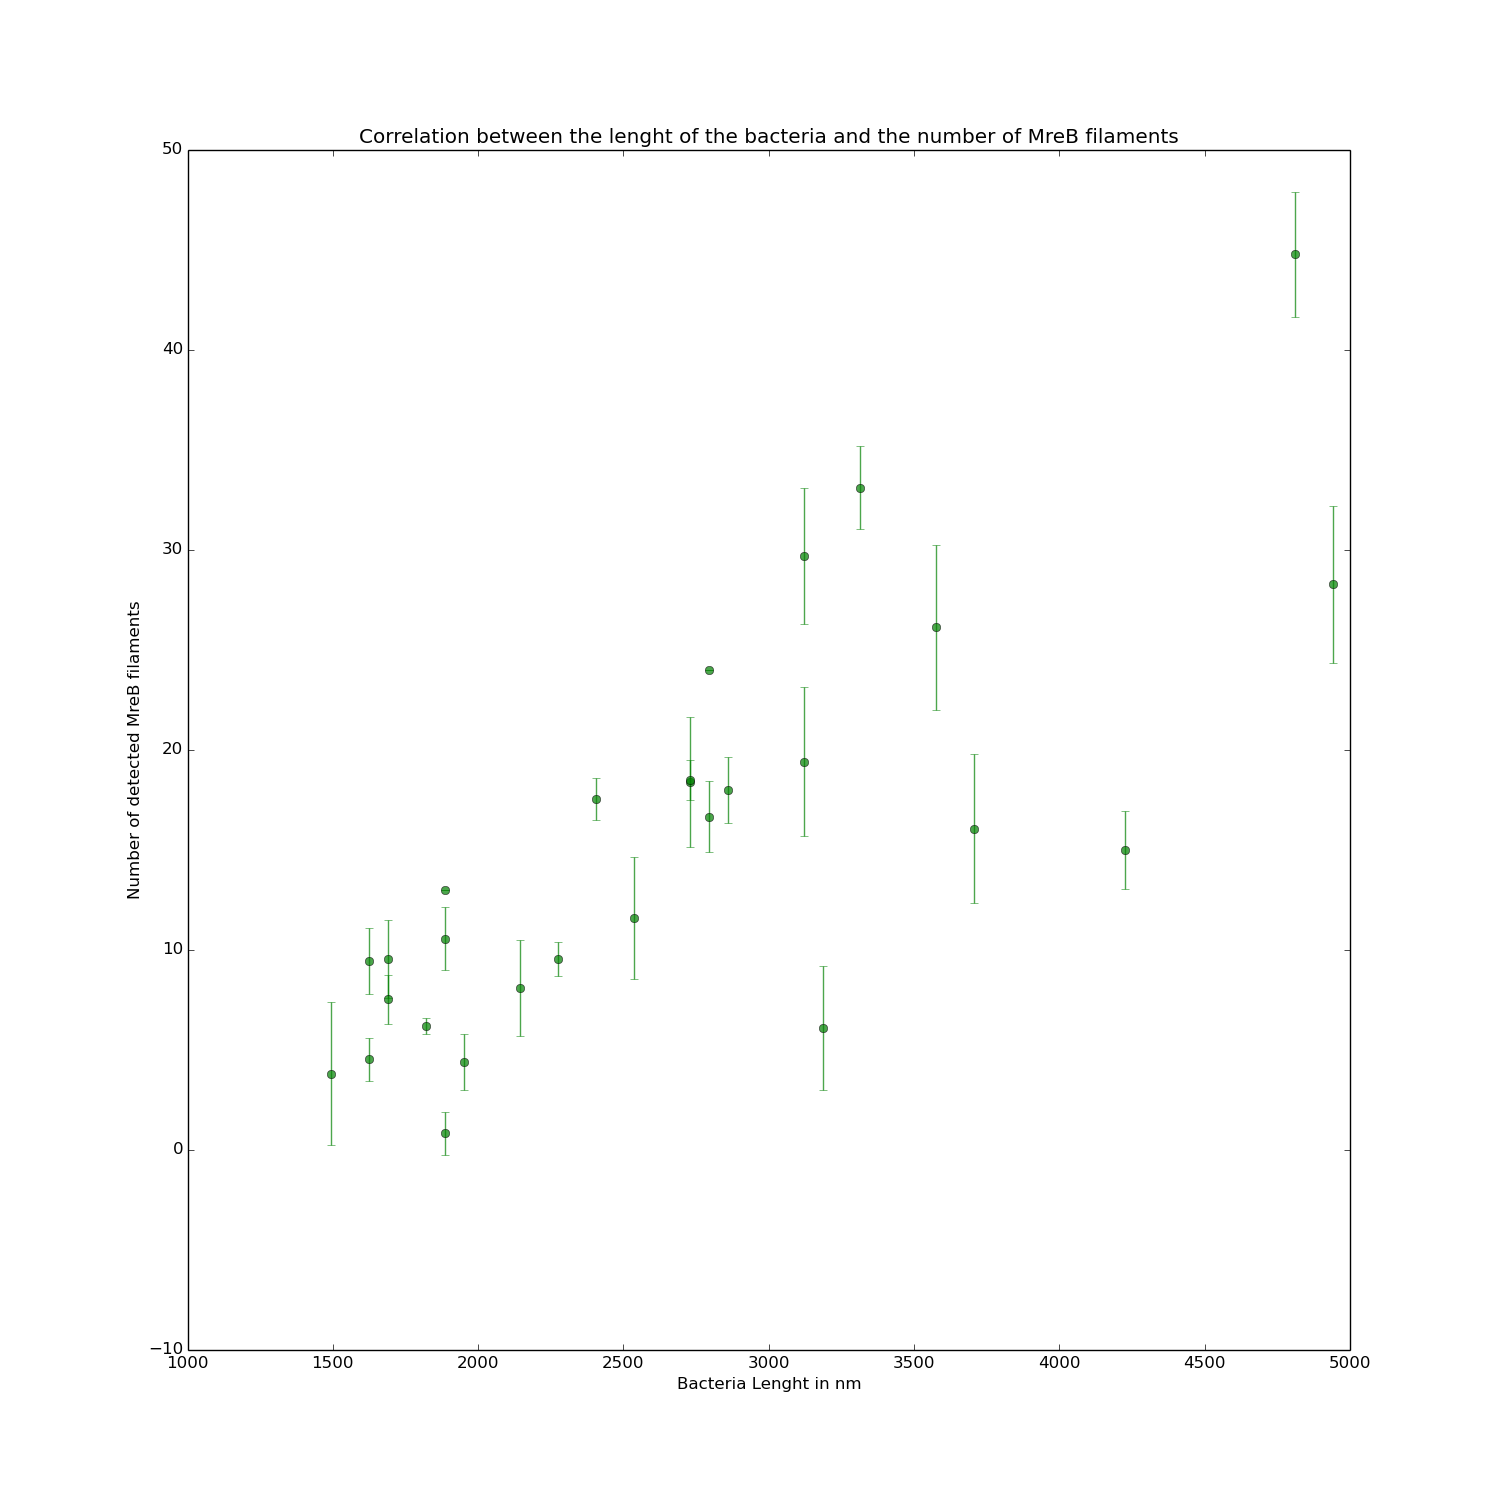
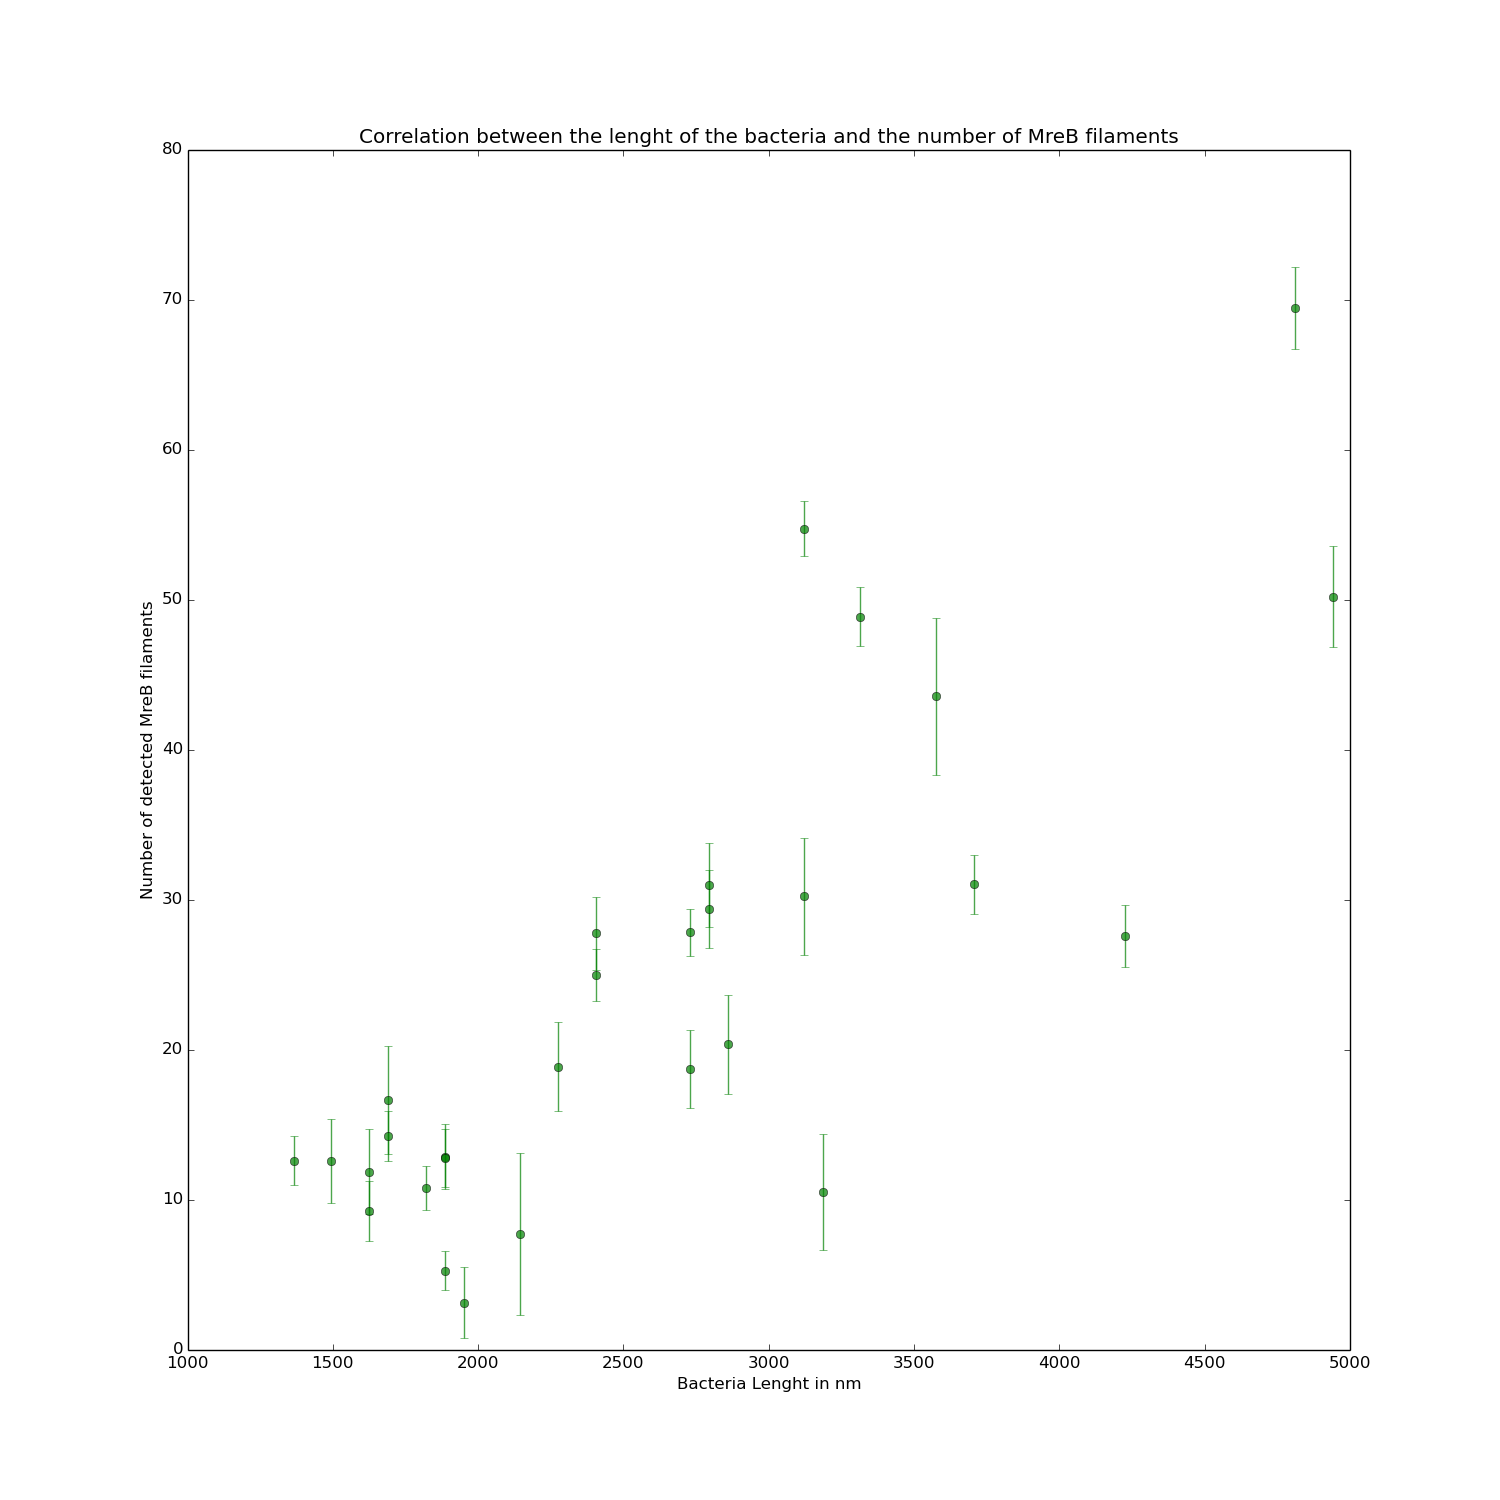
Added the train.py which implement a simple bruteforce parameter search.

diff --git a/train.py b/train.py
@@ -1,0 +1,81 @@
+#!/usr/bin/env python 
+
+import SpotAnaliser
+import sys
+import os
+import matplotlib.pyplot as plt
+import prettyplotlib as ppl
+import numpy as np
+
+if len(sys.argv) < 3:
+	print """USAGE: train.py PATH_TO_IMAGE_FILES TXT_IMAGE_FILE_LIST
+	to run the example:
+	python train.py example/images list.txt
+	the file list.txt needs to have for each line: image_name,number of filament"""
+
+path = os.path.join(os.getcwd(),sys.argv[1])
+filelist = sys.argv[2]
+
+
+os.chdir(path)
+
+lines = open(filelist).readlines()
+bacterial_files = [i.strip().split(',')[0] for i in lines if (i and 'tif' in i.lower())]
+known_filament_number = [float(i.strip().split(',')[1]) for i in lines if (i and 'tif' in i.lower())]
+
+def loss_function(MreB, MreB_True):
+	E = 0
+	for i in range(len(MreB)):
+		E += ((MreB[i] - MreB_True[i])**2)/len(MreB)
+	return E
+
+# self.timethreshold = 4 *self.timeinterval*(1/self.deltax) #Defined how far appart can peak be (in second)
+# self.Time_Error = 6 / self.timeinterval #Allowed variance in second for a peak to be called true when found in vertical axis and checked VS time  
+# self.y_threshold = 0.05				#Minimum signal intensity to be called a peak (the signal is normalized and goes from 0-1 should be set to mean(noise) + 2std(noise) or learned )
+# self.dy_threshold = 0.001	
+timeinterval = 2
+deltax = 0.1
+# timethreshold_totest = np.arange(1,10,1) * timeinterval * (1/deltax)
+# timererror_totest = np.arange(1,15) / timeinterval
+# y_threshold_totest = np.arange(0,0.4,0.01)
+# dy_threshold_totest = np.arange(0,0.01,0.0001)
+timethreshold_totest = np.arange(1,5,0.5) * timeinterval * (1/deltax)
+timererror_totest = np.arange(1,7) / timeinterval
+y_threshold_totest = np.arange(0,0.4,0.01)
+dy_threshold_totest = np.arange(0,0.001,0.0001)
+
+Error = np.zeros((len(timethreshold_totest),len(timererror_totest), len(y_threshold_totest), len(dy_threshold_totest)))
+
+for i in range(len(timethreshold_totest)):
+	for j in range(len(timererror_totest)):
+		for k in range(len(y_threshold_totest)):
+			for l in range(len(dy_threshold_totest)):
+
+				MreB_mu = []
+				MreB_std = []
+				lenght = []
+				speed = []
+
+				for filename in bacterial_files:
+					A = SpotAnaliser.Spot_Analysis(filename)
+					A.timethreshold = timethreshold_totest[i]
+					A.Time_Error = timererror_totest[j]
+					A.y_threshold = y_threshold_totest[k]
+					A.dy_threshold = dy_threshold_totest[l]
+
+					A.Main()
+					MreB_mu.append(A.meanMREB)
+					# MreB_std.append(A.stdMREB)
+					# speed.append(A.speed)
+					# lenght.append(A.bact_lenght_nm)
+				E = loss_function(MreB_mu, known_filament_number)
+				Error[i][j][k][l] = E
+
+# print Error
+# print np.where(Error == Error.min())
+tmp = np.where(Error == Error.min())
+i,j,k,l = tmp[0][0], tmp[1][0], tmp[2][0], tmp[3][0]
+print "timethreshold = ", (timethreshold_totest[i] / timeinterval) / (1/deltax)
+print "Time_Error = ", timererror_totest[j] * timeinterval
+print "y_threshold = ", y_threshold_totest[k]
+print "dy_threshold = ", dy_threshold_totest[l]

diff --git a/SpotAnaliser.py b/SpotAnaliser.py
@@ -36,7 +36,7 @@ class Spot_Analysis:
 		self.Time_Error = 6 / self.timeinterval #Allowed variance in second for a peak to be called true when found in vertical axis and checked VS time  
 		self.diameter = 850 					#Diameter of the bacteria in nm
 		self.pix_size = 65 						#Size in nm of the pixel (here CMOS camera with 100x objective = 65nm)
-		self.y_threshold = 0.4 					#Minimum signal intensity to be called a peak (the signal is normalized and goes from 0-1 should be set to mean(noise) + 2std(noise) or learned )
+		self.y_threshold = 0.05				#Minimum signal intensity to be called a peak (the signal is normalized and goes from 0-1 should be set to mean(noise) + 2std(noise) or learned )
 		self.dy_threshold = 0.001				#Thershold value to detect the peaks > How close to zero does the first derivative need to be to be considered a peak
 		#################################
 
@@ -225,6 +225,8 @@ class Spot_Analysis:
 		time_hit = np.unique(time_hit)
 		time_hit = [np.where(X == i)[0][0] for i in time_hit]
 		self.speed = np.mean(self.all_v)
+		if np.isnan(self.speed):
+			self.speed = 0
 		print "mean Speed", self.speed
 		for time in time_hit:
 			# print "time is :",time
@@ -261,32 +263,34 @@ class Spot_Analysis:
 						pass
 				if test:
 					self.Real_hit.append((line,t))
-
-		Tn = {}
-		lines, times = np.array(self.Real_hit)[:,0],np.array(self.Real_hit)[:,1]
-		for i in range(len(times)):
-			if Tn.has_key(times[i]):
-				Tn[times[i]].append(lines[i])
-			else:
-				Tn[times[i]] = [lines[i]]
-		T = np.unique(times)
-		res = np.zeros(T.max())
-
-		for t in range(len(T)):
-			c = 0
-			for l in Tn[T[t]]:
-				if t < len(T)-2:
-					if l not in Tn[T[t+2]] and l not in Tn[T[t+1]]:
-						c+=1
+		if self.Real_hit:
+			Tn = {}
+			lines, times = np.array(self.Real_hit)[:,0],np.array(self.Real_hit)[:,1]
+			for i in range(len(times)):
+				if Tn.has_key(times[i]):
+					Tn[times[i]].append(lines[i])
 				else:
-					c+=1
-			res[t] = c
+					Tn[times[i]] = [lines[i]]
+			T = np.unique(times)
+			res = np.zeros(T.max())
 
-		self.revolution_window = int((self.diameter*np.pi)/self.speed)
-		windowed = []
-		for i in range(len(res)-self.revolution_window):
-			windowed.append(np.sum(res[i:i+self.revolution_window]))
-		self.meanMREB, self.stdMREB = np.mean(windowed), np.std(windowed)
+			for t in range(len(T)):
+				c = 0
+				for l in Tn[T[t]]:
+					if t < len(T)-2:
+						if l not in Tn[T[t+2]] and l not in Tn[T[t+1]]:
+							c+=1
+					else:
+						c+=1
+				res[t] = c
+
+			self.revolution_window = int((self.diameter*np.pi)/self.speed)
+			windowed = []
+			for i in range(len(res)-self.revolution_window):
+				windowed.append(np.sum(res[i:i+self.revolution_window]))
+			self.meanMREB, self.stdMREB = np.mean(windowed), np.std(windowed)
+		else:
+			self.meanMREB, self.stdMREB = 0, 0
 		print "Number of Events per revolution window:"
 		print "Mean:",self.meanMREB, "Std:",self.stdMREB
 		

diff --git a/run.py b/run.py
@@ -23,8 +23,6 @@ os.chdir(path)
 lines = open(filelist).readlines()
 bacterial_files = [i.strip() for i in lines if (i and 'tif' in i.lower())]
 
-print path
-print bacterial_files
 # filename = bacterial_files[25]
 # filename = 'bMD369_NOiptg_1_R3D_nodrift-1.tif'
 
@@ -42,7 +40,6 @@ for filename in bacterial_files:
 		speed.append(A.speed)
 		lenght.append(A.bact_lenght_nm)
 
-print lenght, MreB_mu, MreB_std
 fig = plt.figure(figsize=(15,15))
 plt.errorbar(lenght, MreB_mu, yerr=MreB_std, fmt='o', alpha=0.7, color='g')
 plt.xlabel('Bacteria Lenght in nm')
